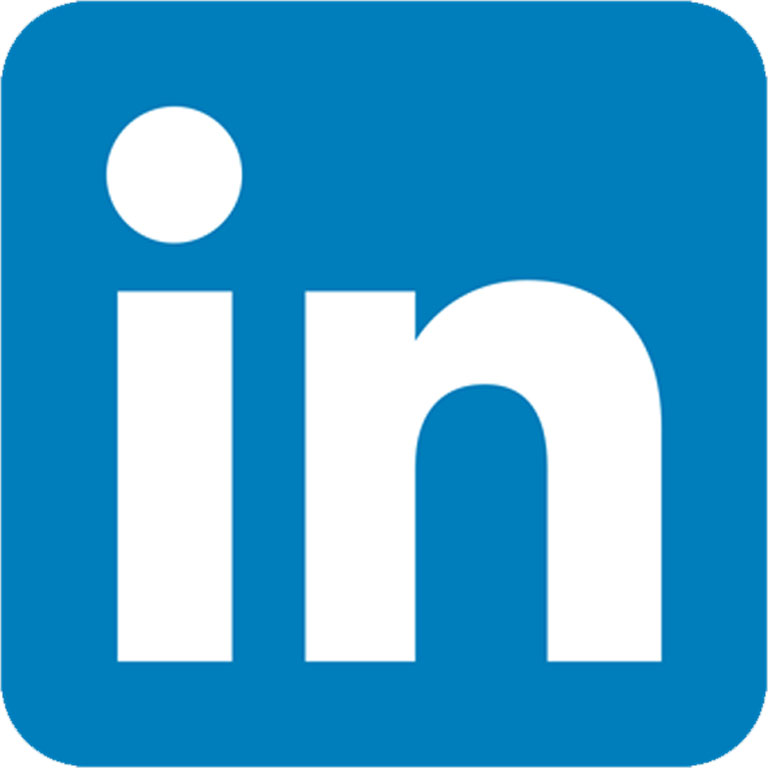
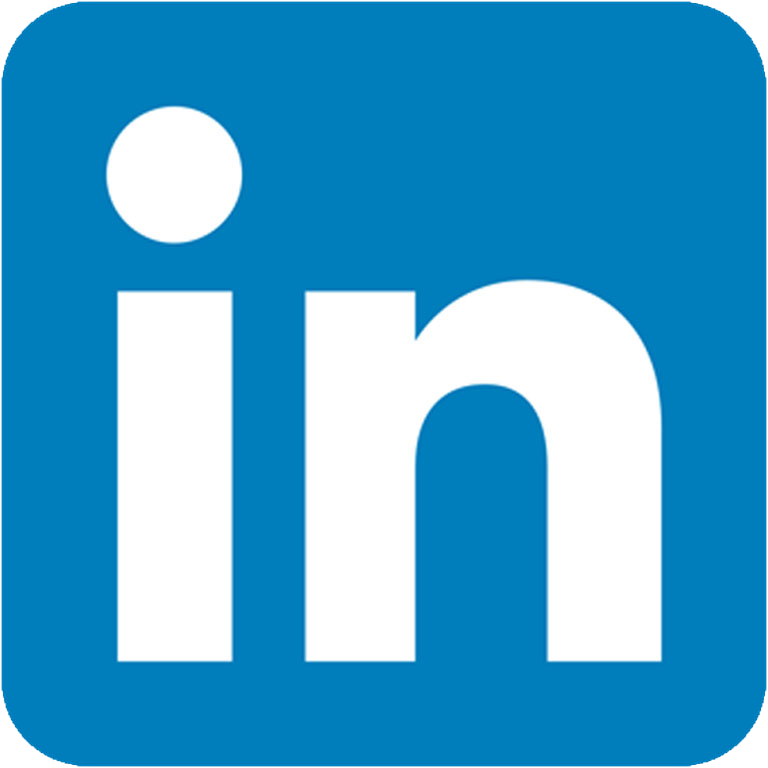
.
.

diff --git a/index.html b/index.html
@@ -36,7 +36,7 @@
                 <ul class="dropdown-menu">
                   <li>
                     <a class="dropdown-item" style="color: black" target="_blank" href="https://www.linkedin.com/in/daniel-povea-507893222/">
-                      <img src="./assets/images/LinkedIn.png" width="25" height="25" style="display: inline-block;">
+                      <img src="./assets/images/Linkedin.png" width="25" height="25" style="display: inline-block;">
                       <span style="display: inline-block; margin-left: 1px;">Linkedin</span>
                     </a>
                   </li>                                 
